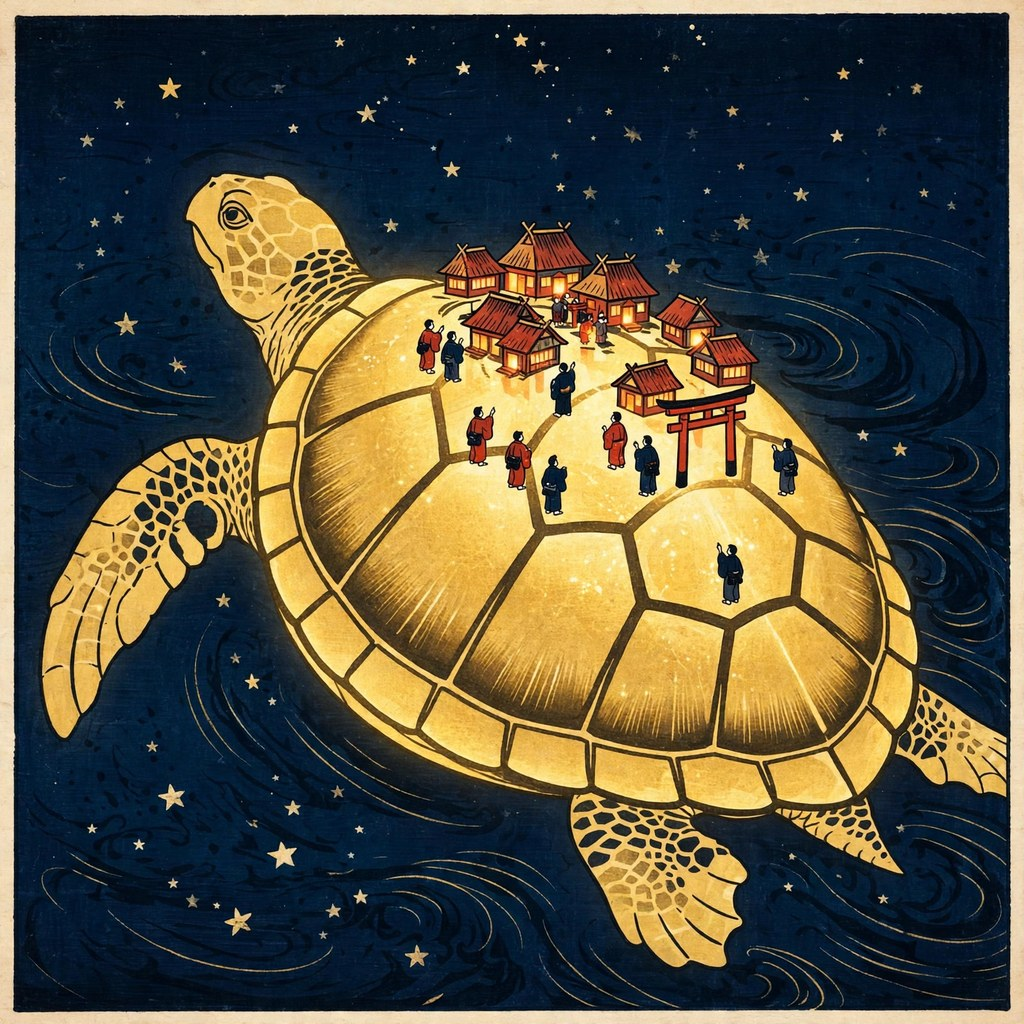
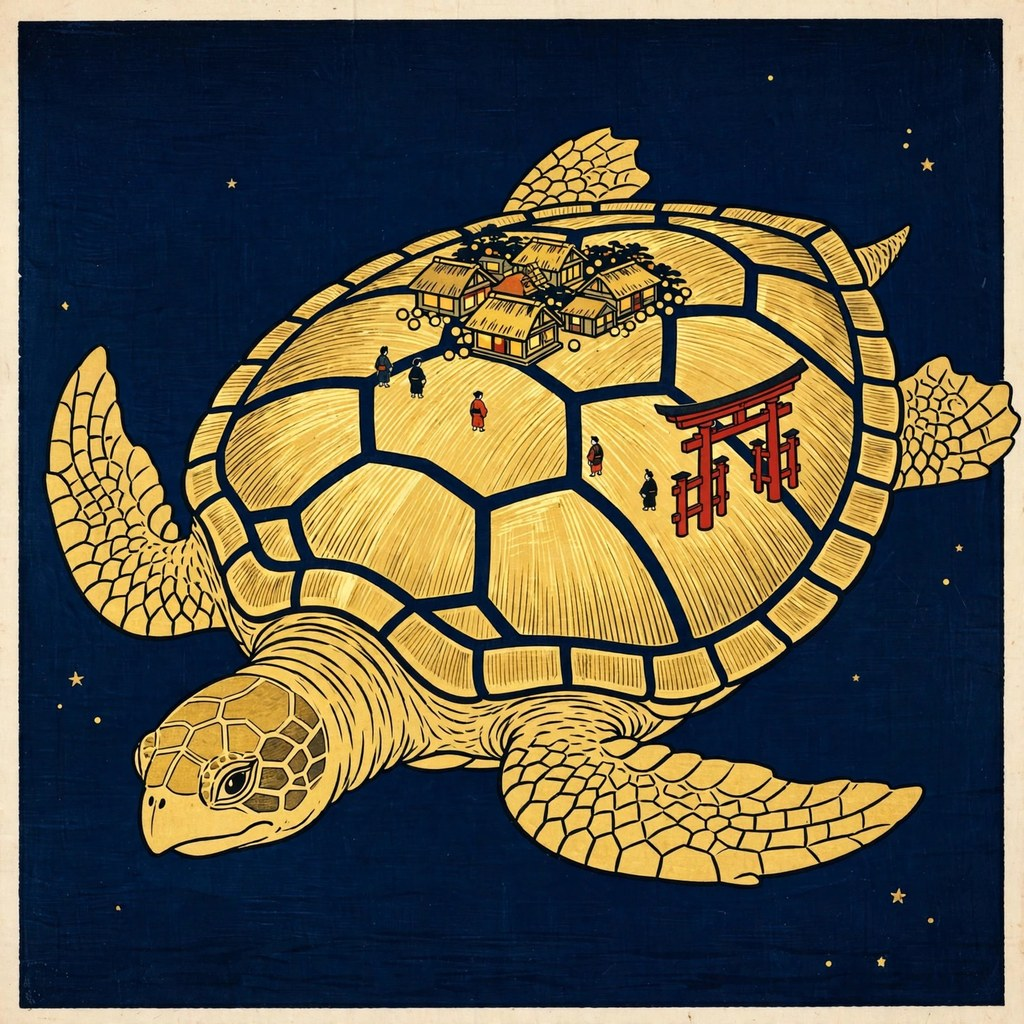
v6: world turtle carrying a village, clean navy sky

diff --git a/README.md b/README.md
@@ -1,10 +1,8 @@
 # Coolest art — make.fun entry
 
-A giant golden world turtle swimming through a deep navy night sky in
-flat ukiyo-e style, its huge domed shell filling the frame, a tiny village
-with warm lights and about a dozen small villagers on top of the shell.
-One image, one mood: a living myth at a scale that makes a person look
-twice.
+A giant golden world turtle carrying a tiny village on its glowing shell,
+swimming through a plain deep navy night sky with only a few stars. One
+image, one mood: a living myth at a scale that makes a person look twice.
 
 `main.py` (stdlib only, no network) copies the bundled `art.jpg` to
 `/output/entry.png` and verifies it: JPEG magic bytes, at most 1 MiB,
